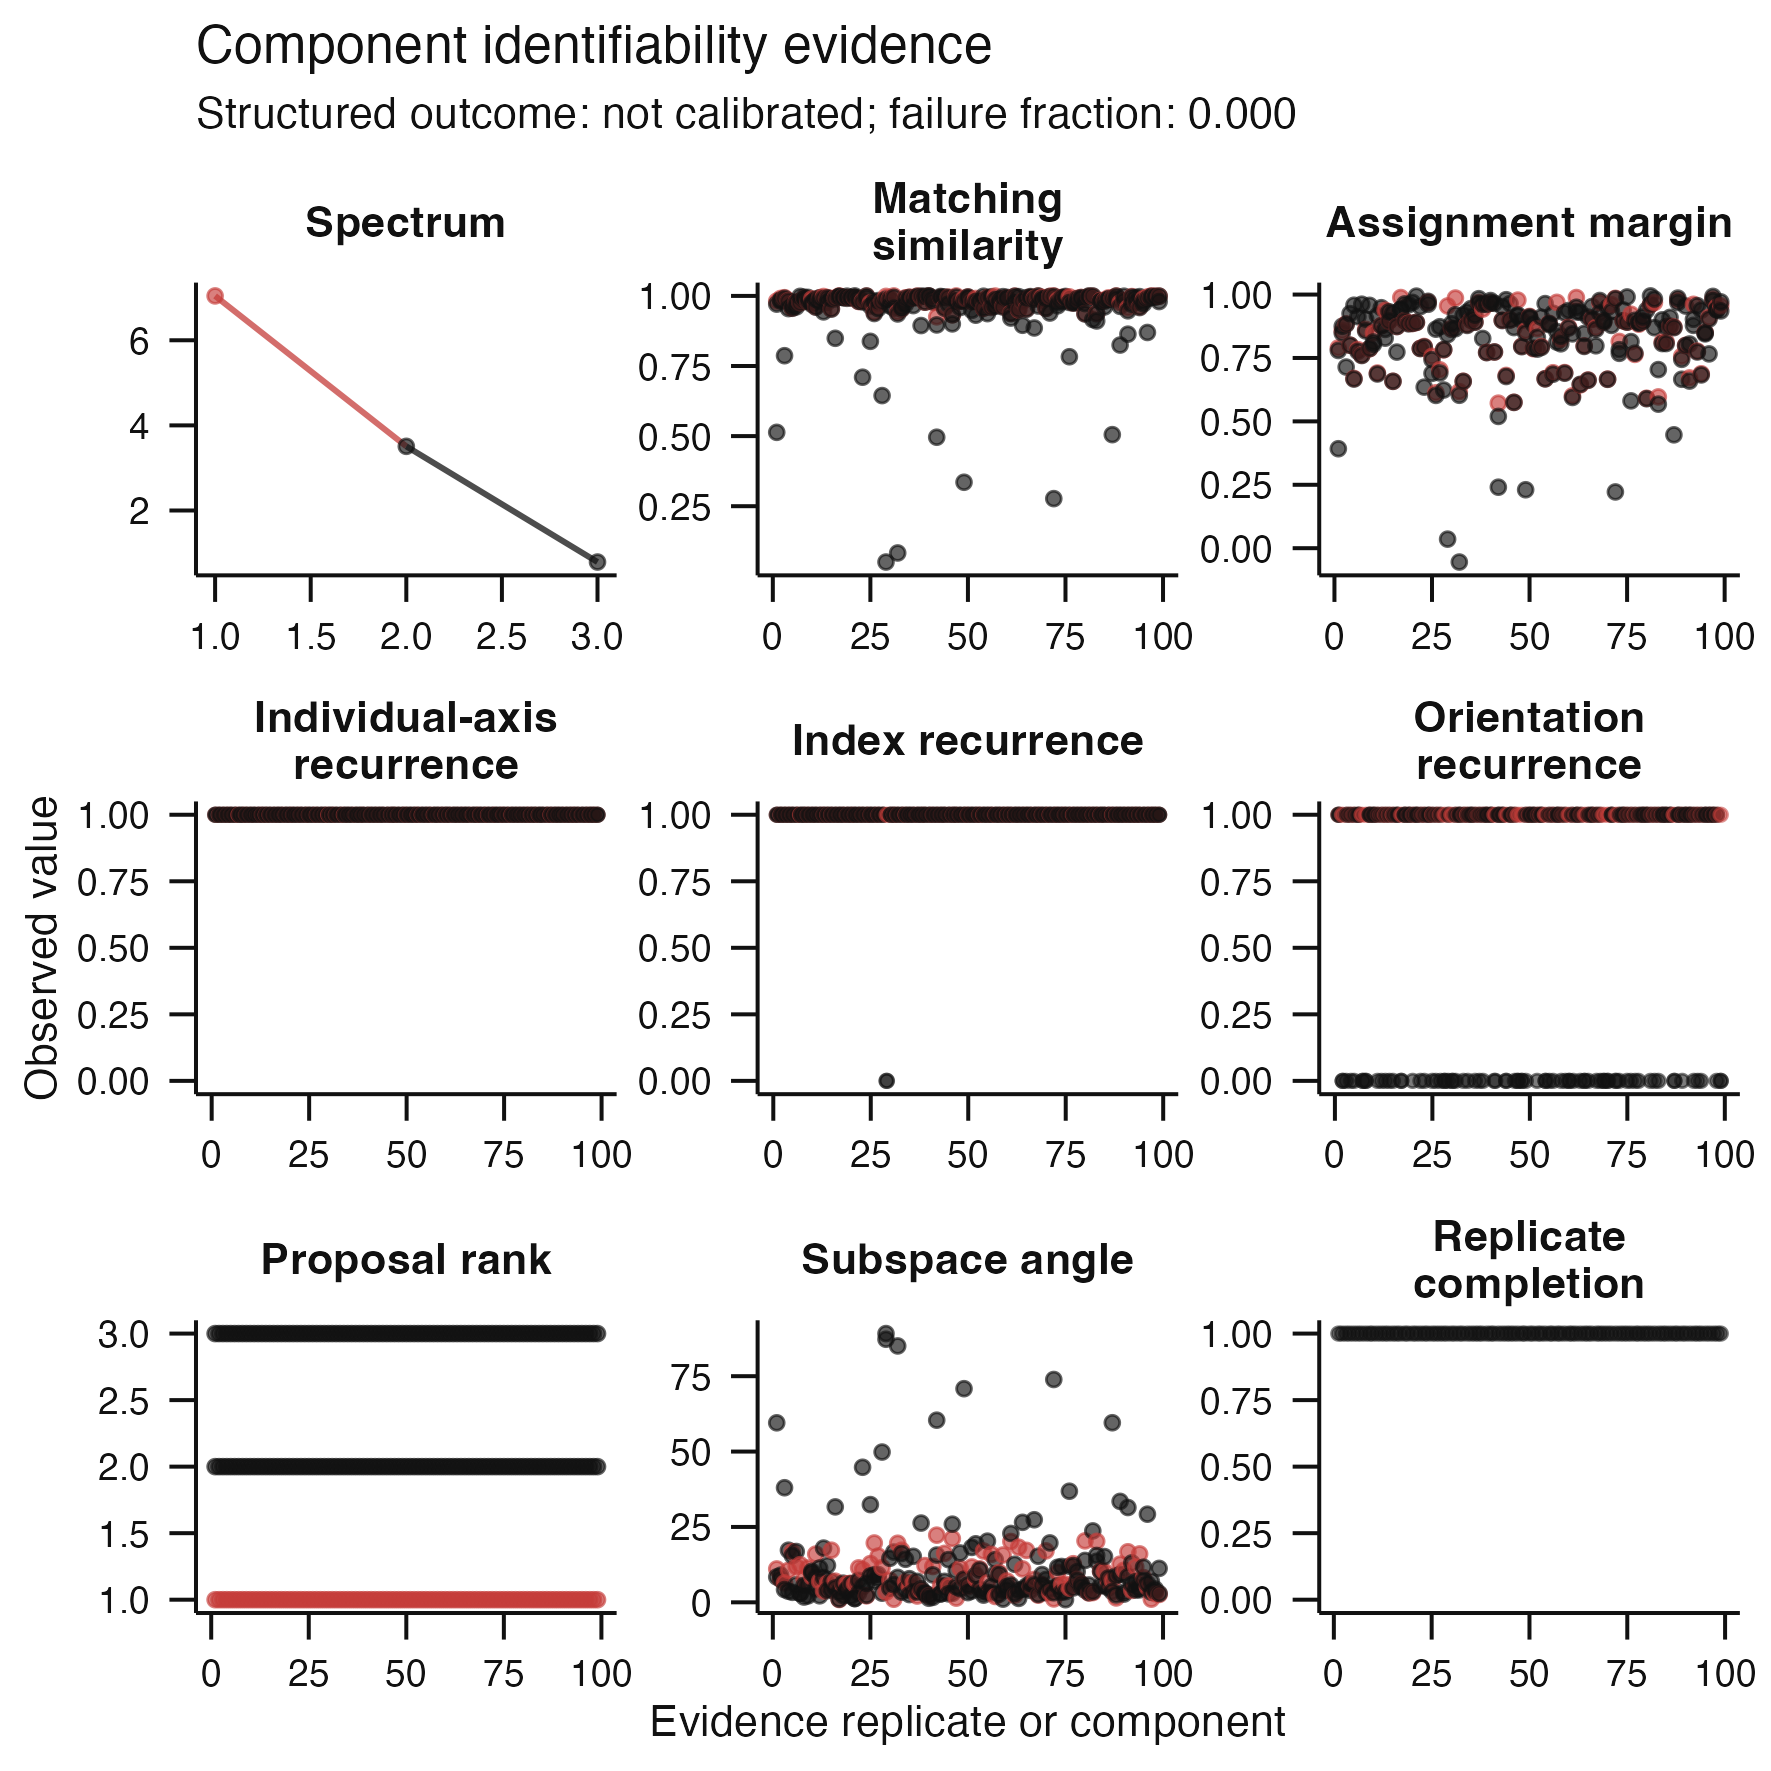
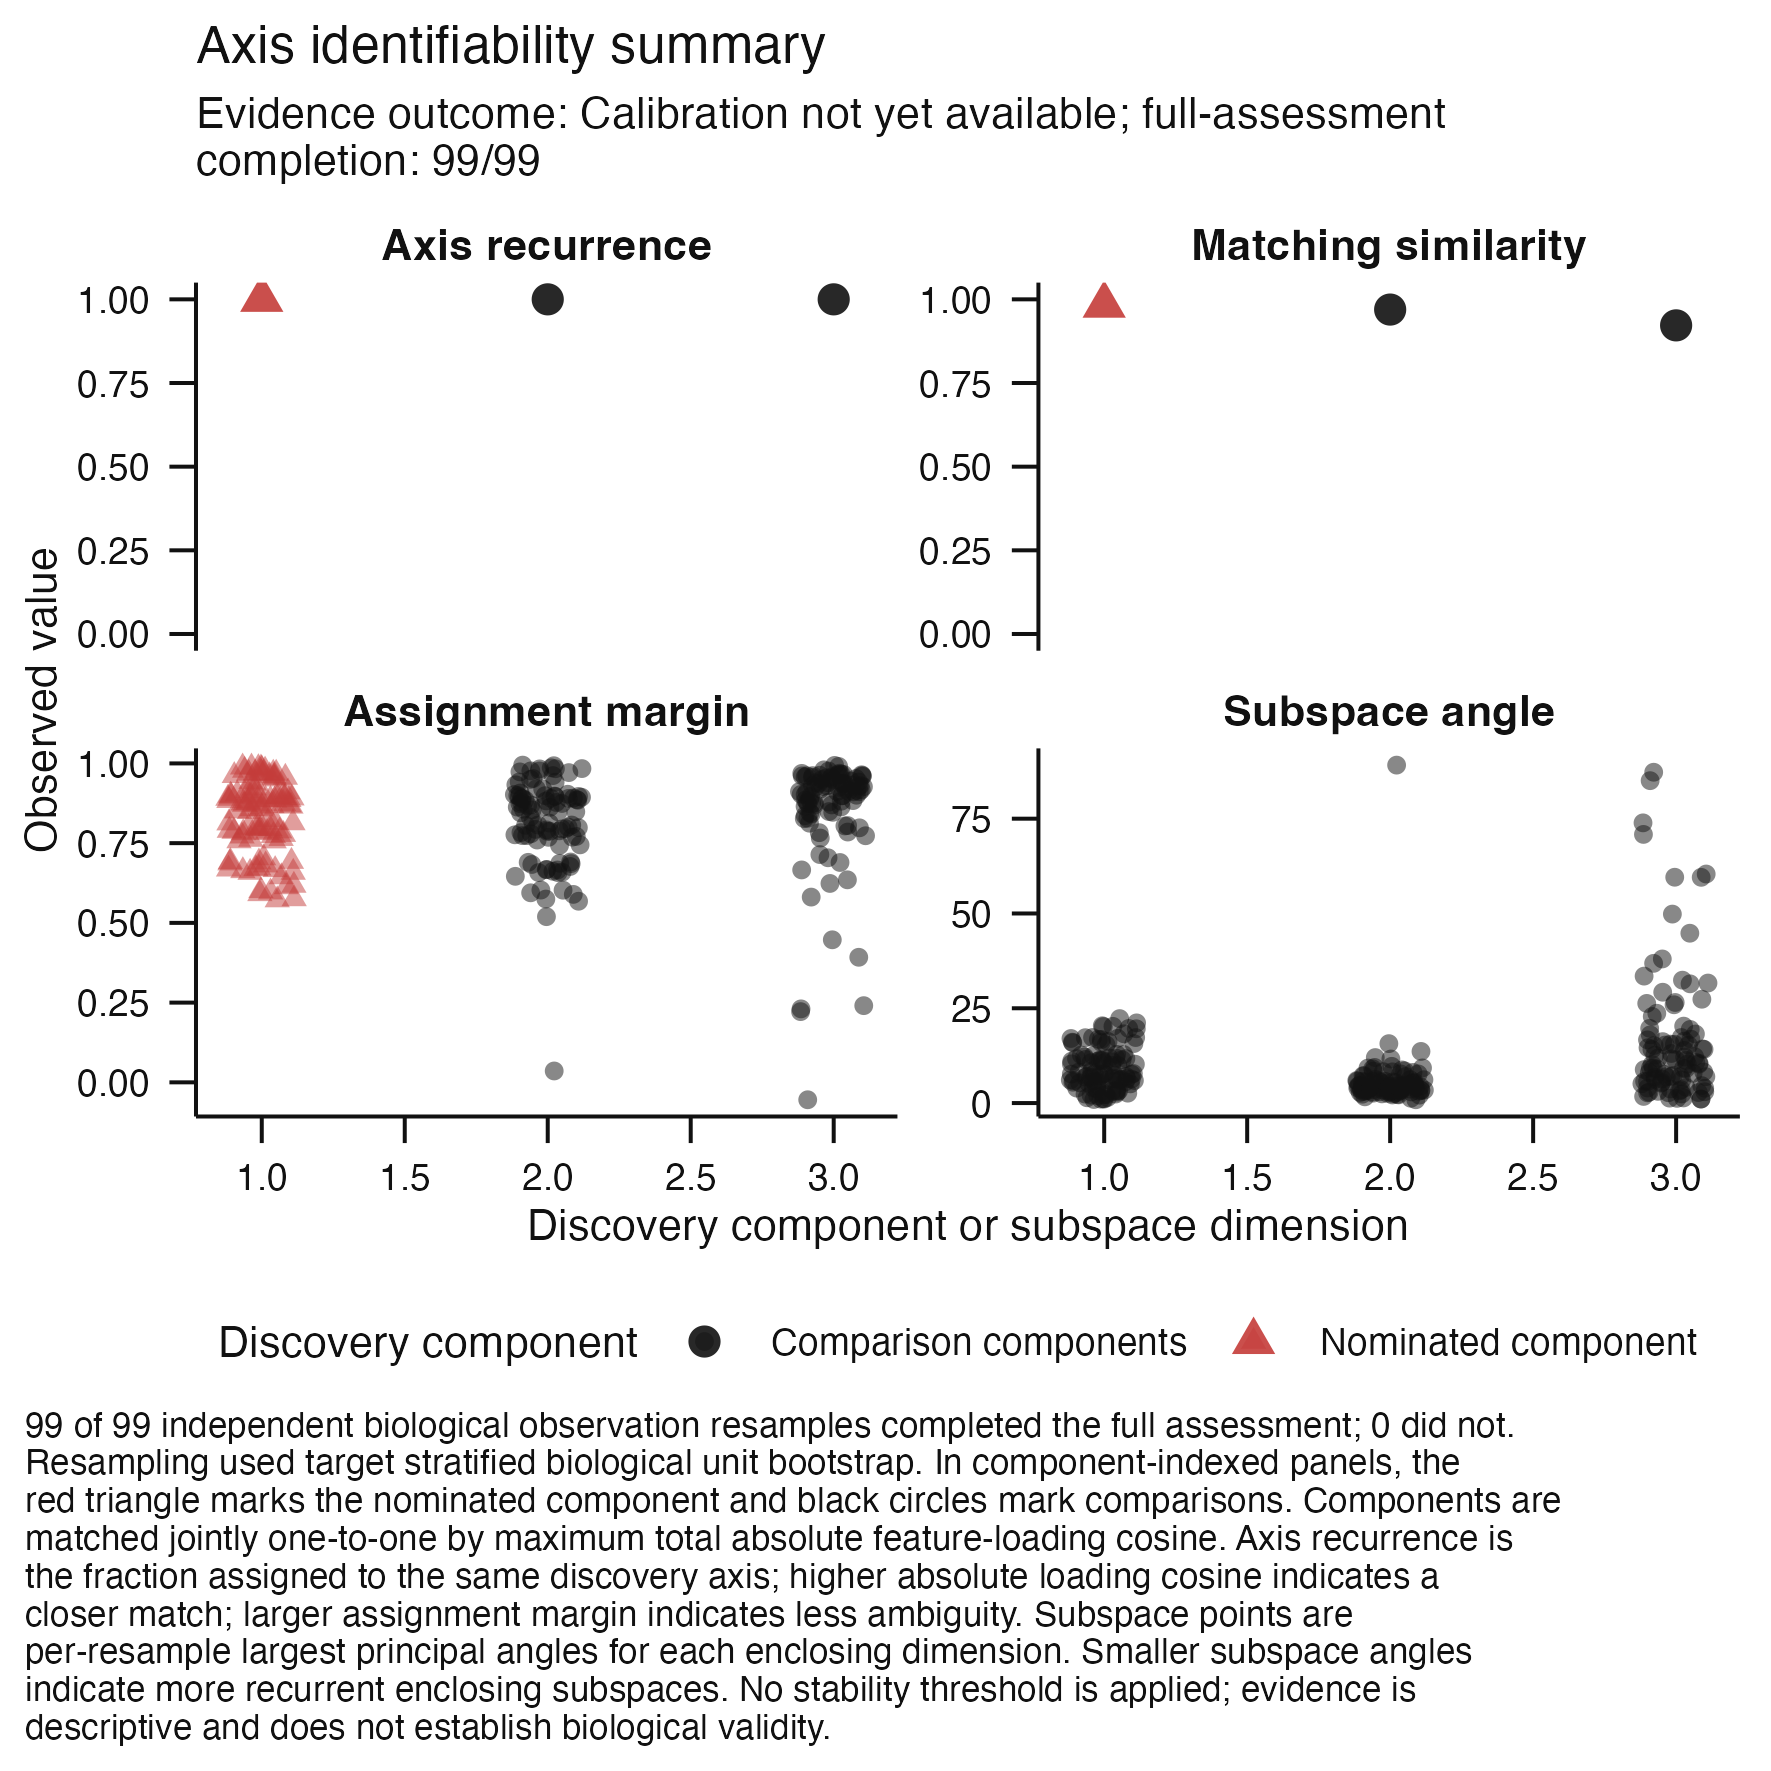
docs: refresh identifiability visual proof

diff --git a/.github/landing-proof/issue-83/README.md b/.github/landing-proof/issue-83/README.md
@@ -7,14 +7,16 @@ threshold, axis recovery, or biological support.
 
 ![Component identifiability evidence](identifiability-surface.png)
 
-The red traces identify the uniquely nominated discovery component. Grey traces
-retain the remaining search set. The compact surface exposes the reference
-spectrum, matching similarity and ambiguity, proposal-rank recurrence,
-individual-axis, component-index, and biological-orientation recurrence,
-subspace angles, exact failed-replicate fraction, replicate completion, and the
-final structured status without using a spectral gap or stability score to
-rerank the biological effect. Unmatched axes remain visible as zero
-individual-axis recurrence.
+The red triangles identify the uniquely nominated discovery component; black
+circles retain the remaining search set. The primary surface exposes
+individual-axis recurrence, mean loading-match similarity, assignment
+ambiguity, and enclosing-subspace angles. Its dynamic caption defines the
+encodings, biological resampling unit, joint one-to-one matching rule,
+completion status, and uncalibrated claim boundary. The complete nine-panel
+audit surface remains available through
+`plot_component_identifiability(proposal, view = "diagnostic")`, where
+component identity, per-resample recurrence, proposal rank, orientation,
+spectrum, and completion remain visible.
 
 The exact per-replicate assignments and rank recurrence remain available in
 [`component-recurrence.tsv`](component-recurrence.tsv);
